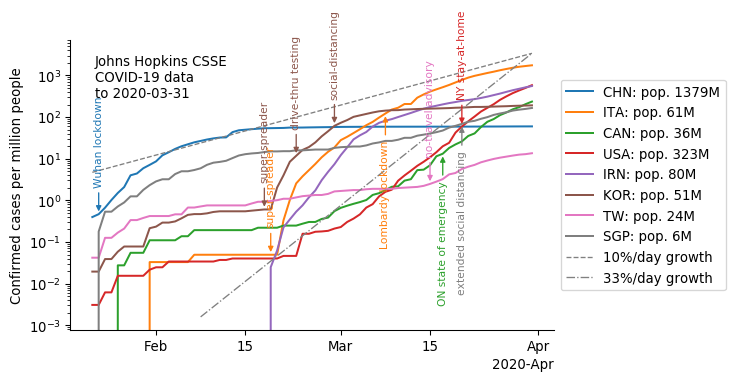
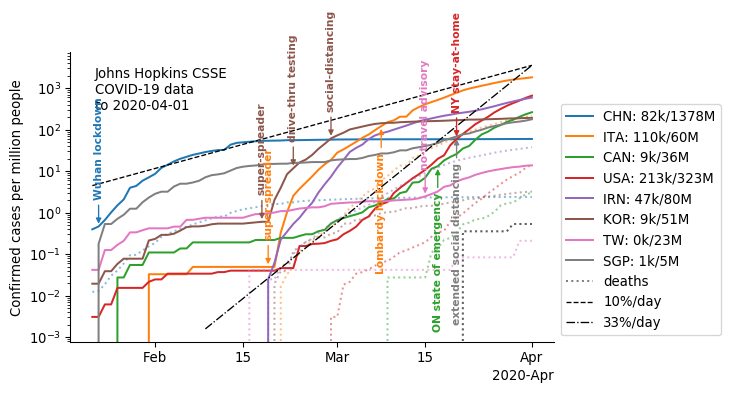
Added deaths as dotted lines.

Changed region(s): [[0.0, 0.0289, 0.9945, 0.9816], [0.7534, 0.8084, 0.9041, 0.8661], [0.2712, 0.7507, 0.3315, 0.8373]]

diff --git a/visualization/plots.py b/visualization/plots.py
@@ -19,7 +19,7 @@ import pandas as pd
 # %% constants
 DATA_PATH = ('https://raw.githubusercontent.com/CSSEGISandData/COVID-19/'
              'master/csse_covid_19_data/csse_covid_19_time_series')
-CONFIRMED_CSV = 'time_series_covid19_confirmed_global.csv'
+CASES_CSV = 'time_series_covid19_confirmed_global.csv'
 DEATHS_CSV = 'time_series_covid19_deaths_global.csv'
 RECOVERED_CSV = 'time_series_covid19_recovered_global.csv'
 POP_CSV = (
@@ -102,11 +102,12 @@ def aggregator(item):
         return 'first'
 
 
-def add_rates(ax, dates, rates=(0.1, 0.33), linestyles=('--', '-.', ':')):
+def add_rates(ax, dates, rates=(0.1, 0.33), linestyles=('--', '-.', ':'),
+              **kwargs):
     xlim = date2num([dates[0], dates[-1]])
     ylim = ax.get_ylim()
     for rate, linestyle in zip(rates, linestyles):
-        label = '%.0f%%/day growth' % (100*rate)
+        label = '%.0f%%/day' % (100*rate)
         x = xlim[1] - log(ylim[1]/ylim[0], 1 + rate)
         y = ylim[1]/(1 + rate)**(xlim[1] - xlim[0])
         if x < xlim[0]:
@@ -115,27 +116,47 @@ def add_rates(ax, dates, rates=(0.1, 0.33), linestyles=('--', '-.', ':')):
             y = ylim[0]
         ax.semilogy(
             [item.date() for item in num2date([x, xlim[1]])], [y, ylim[1]],
-            label=label, linestyle=linestyle, linewidth=1, color='0.5')
+            label=label, linestyle=linestyle, **kwargs)
 
 
 # %% COVID-19 data
-confirmed_df = pd.read_csv(os.path.join(DATA_PATH, CONFIRMED_CSV))
-confirmed_df.columns = [maybe_date(item) for item in confirmed_df.columns]
-dates = [item for item in confirmed_df.columns
+cases_df = pd.read_csv(os.path.join(DATA_PATH, CASES_CSV))
+cases_df.columns = [maybe_date(item) for item in cases_df.columns]
+dates = [item for item in cases_df.columns
          if isinstance(item, datetime.date)]
 as_of = 'Johns Hopkins CSSE\nCOVID-19 data\nto %s' % dates[-1]
-confirmed_df['Country/Region'] = confirmed_df['Country/Region'].replace(RENAME)
-confirmed_df['Province/State'].fillna('', inplace=True)
-confirmed_df = confirmed_df[~confirmed_df['Province/State'].isin(NON_STATES)]
+cases_df['Country/Region'] = cases_df['Country/Region'].replace(RENAME)
+cases_df['Province/State'].fillna('', inplace=True)
+cases_df = cases_df[~cases_df['Province/State'].isin(NON_STATES)]
 
-aggregators = {item: aggregator(item) for item in confirmed_df.columns}
-countries_df = confirmed_df.groupby('Country/Region').agg(
+aggregators = {item: aggregator(item) for item in cases_df.columns}
+cases_country_df = cases_df.groupby('Country/Region').agg(
     aggregators).drop(columns='Country/Region')
 
-provinces_df = confirmed_df[confirmed_df['Country/Region'] == 'Canada'].copy()
-provinces_df.drop(columns=['Country/Region', 'Lat', 'Long'], inplace=True)
-provinces_df.set_index('Province/State', inplace=True)
-provinces_df.sort_values(dates[-1], inplace=True, ascending=False)
+cases_province_df = cases_df[cases_df['Country/Region'] == 'Canada'].copy()
+cases_province_df.drop(columns=['Country/Region', 'Lat', 'Long'], inplace=True)
+cases_province_df.set_index('Province/State', inplace=True)
+cases_province_df.sort_values(dates[-1], inplace=True, ascending=False)
+
+deaths_df = pd.read_csv(os.path.join(DATA_PATH, DEATHS_CSV))
+deaths_df.columns = [maybe_date(item) for item in deaths_df.columns]
+dates = [item for item in deaths_df.columns
+         if isinstance(item, datetime.date)]
+as_of = 'Johns Hopkins CSSE\nCOVID-19 data\nto %s' % dates[-1]
+deaths_df['Country/Region'] = deaths_df['Country/Region'].replace(RENAME)
+deaths_df['Province/State'].fillna('', inplace=True)
+deaths_df = deaths_df[~deaths_df['Province/State'].isin(NON_STATES)]
+
+aggregators = {item: aggregator(item) for item in deaths_df.columns}
+deaths_country_df = deaths_df.groupby('Country/Region').agg(
+    aggregators).drop(columns='Country/Region')
+
+deaths_province_df = deaths_df[deaths_df['Country/Region'] == 'Canada'].copy()
+deaths_province_df.drop(columns=['Country/Region', 'Lat', 'Long'],
+                        inplace=True)
+deaths_province_df.set_index('Province/State', inplace=True)
+deaths_province_df.sort_values(dates[-1], inplace=True, ascending=False)
+
 
 # %% auxiliary data
 pop_df = pd.read_csv(POP_CSV)
@@ -166,9 +187,10 @@ for i, countries in enumerate(PLOT_COUNTRIES, start=1):
             raise RuntimeError('No population data.')
 
         code = pop_df.at[country, 'Country Code']
-        label = '%s: pop. %.0fM' % (code, milion_people)
+        cases = cases_country_df.loc[country, dates[-1]]
+        label = '%s: %dk/%dM' % (code, cases/1e3, milion_people)
         line = ax.semilogy(
-            dates, countries_df.loc[country, dates]/milion_people,
+            dates, cases_country_df.loc[country, dates]/milion_people,
             label=label)[0]
 
         for index, info in EVENT_DF[EVENT_DF.country == country].iterrows():
@@ -176,18 +198,29 @@ for i, countries in enumerate(PLOT_COUNTRIES, start=1):
                 kwargs = dict(xytext=(0, 20), va='bottom')
             else:
                 kwargs = dict(xytext=(0, -20), va='top')
-            cases_pmp = countries_df.loc[country, info.date]/milion_people
+            cases_pmp = cases_country_df.loc[country, info.date]/milion_people
             ax.annotate(
                 info.event, (info.date, cases_pmp), textcoords='offset points',
                 color=line.get_color(), fontsize=8, rotation=90, ha='center',
+                fontweight='bold',
                 arrowprops=dict(arrowstyle='-|>', color=line.get_color()),
                 **kwargs)
+
+        ax.semilogy(
+            dates, deaths_country_df.loc[country, dates]/milion_people,
+            color=line.get_color(), linestyle=':', alpha=0.5)[0]
+
+    ax.semilogy(
+        dates, deaths_country_df.loc[country, dates]/milion_people,
+        color='black', linestyle=':', alpha=0.5, label='deaths')[0]
 
     locator = AutoDateLocator()
     ax.xaxis.set_major_locator(locator)
     ax.xaxis.set_major_formatter(ConciseDateFormatter(locator))
-    add_rates(ax, dates)
-    ax.legend(loc='center left', bbox_to_anchor=(1, 0.5))
+
+    add_rates(ax, dates, color='black', linewidth=1)
+
+    ax.legend(loc='lower left', bbox_to_anchor=(1, 0))
     ax.set_ylabel('Confirmed cases per million people')
     ax.spines['top'].set_visible(False)
     ax.spines['right'].set_visible(False)
@@ -198,34 +231,42 @@ for i, countries in enumerate(PLOT_COUNTRIES, start=1):
 # %% plot country data
 fig, ax = plt.subplots(figsize=(6.5, 4))
 ax.annotate(as_of, (0.05, 0.95), xycoords='axes fraction', va='top')
-# info = EVENT_DF.query('country == "Canada"').squeeze()
-# ax.axvline(info.date, ls='--', color='k', label=info.event)
-for province in provinces_df.iloc[:8].index:
+
+for province in cases_province_df.iloc[:8].index:
     milion_people = prov_pop_df.at[province, 'Population, 2016']/1e6
     code = SGC_CODES[prov_pop_df.at[province, 'Geographic code']]
-    current = provinces_df.loc[province, dates[-1]]
+    current = cases_province_df.loc[province, dates[-1]]
     label = '%s: %d cases, %.1fM people' % (code, current, milion_people)
-    line = ax.semilogy(dates, provinces_df.loc[province, dates]/milion_people,
-                       label=label)[0]
+    line = ax.semilogy(
+        dates, cases_province_df.loc[province, dates]/milion_people,
+        label=label)[0]
 
     for index, info in EVENT_DF[EVENT_DF.country == province].iterrows():
         if info.arrow == 'up':
             kwargs = dict(xytext=(0, 20), va='bottom')
         else:
             kwargs = dict(xytext=(0, -20), va='top')
-        cases_pmp = provinces_df.loc[province, info.date]/milion_people
+        cases_pmp = cases_province_df.loc[province, info.date]/milion_people
         ax.annotate(
             info.event, (info.date, cases_pmp), textcoords='offset points',
             color=line.get_color(), fontsize=8, rotation=90, ha='center',
             arrowprops=dict(arrowstyle='-|>', color=line.get_color()),
             **kwargs)
 
+    ax.semilogy(
+        dates, deaths_province_df.loc[province, dates]/milion_people,
+        color=line.get_color(), linestyle=':', alpha=0.5)[0]
+
+ax.semilogy(
+    dates, deaths_province_df.loc[province, dates]/milion_people,
+    color='black', linestyle=':', alpha=0.5, label='deaths')[0]
+
 locator = AutoDateLocator()
 ax.xaxis.set_major_locator(locator)
 ax.xaxis.set_major_formatter(ConciseDateFormatter(locator))
 start_date = (pd.to_datetime(info.date) -
               pd.to_timedelta(30, unit='day')).date()
-add_rates(ax, [start_date, dates[-1]])
+add_rates(ax, [start_date, dates[-1]], linewidth=1, color='0.5')
 ax.legend(loc='center left', bbox_to_anchor=(1, 0.5))
 ax.set_ylabel('Confirmed cases per million people')
 ax.set_xlim((start_date, ax.get_xlim()[1]))
